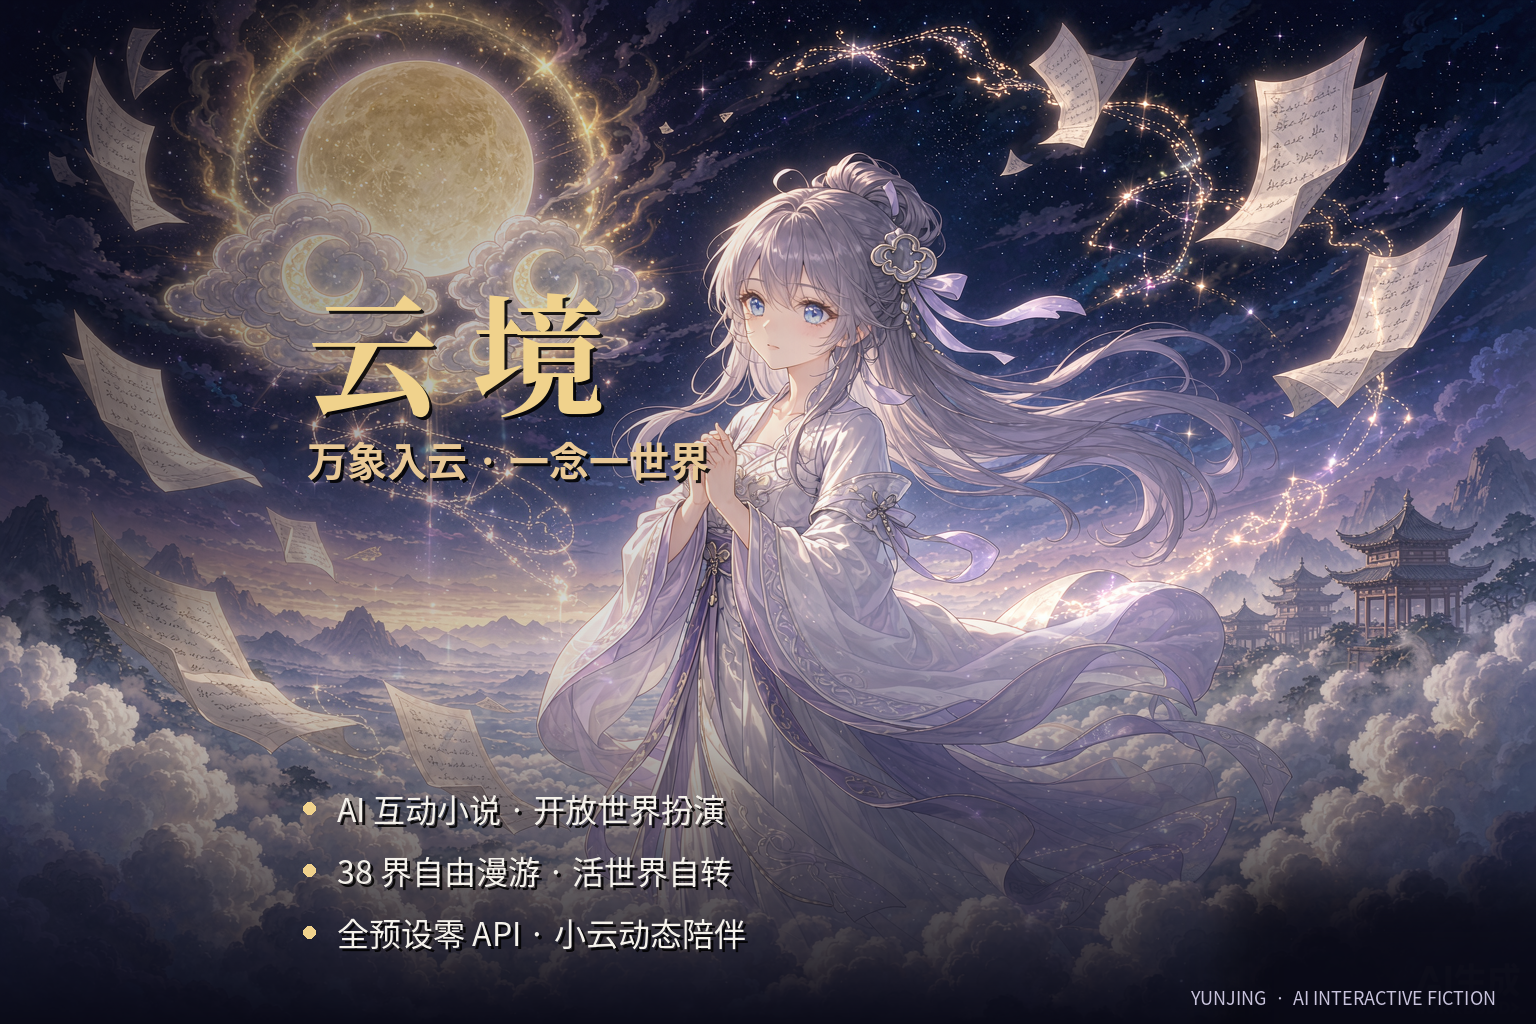
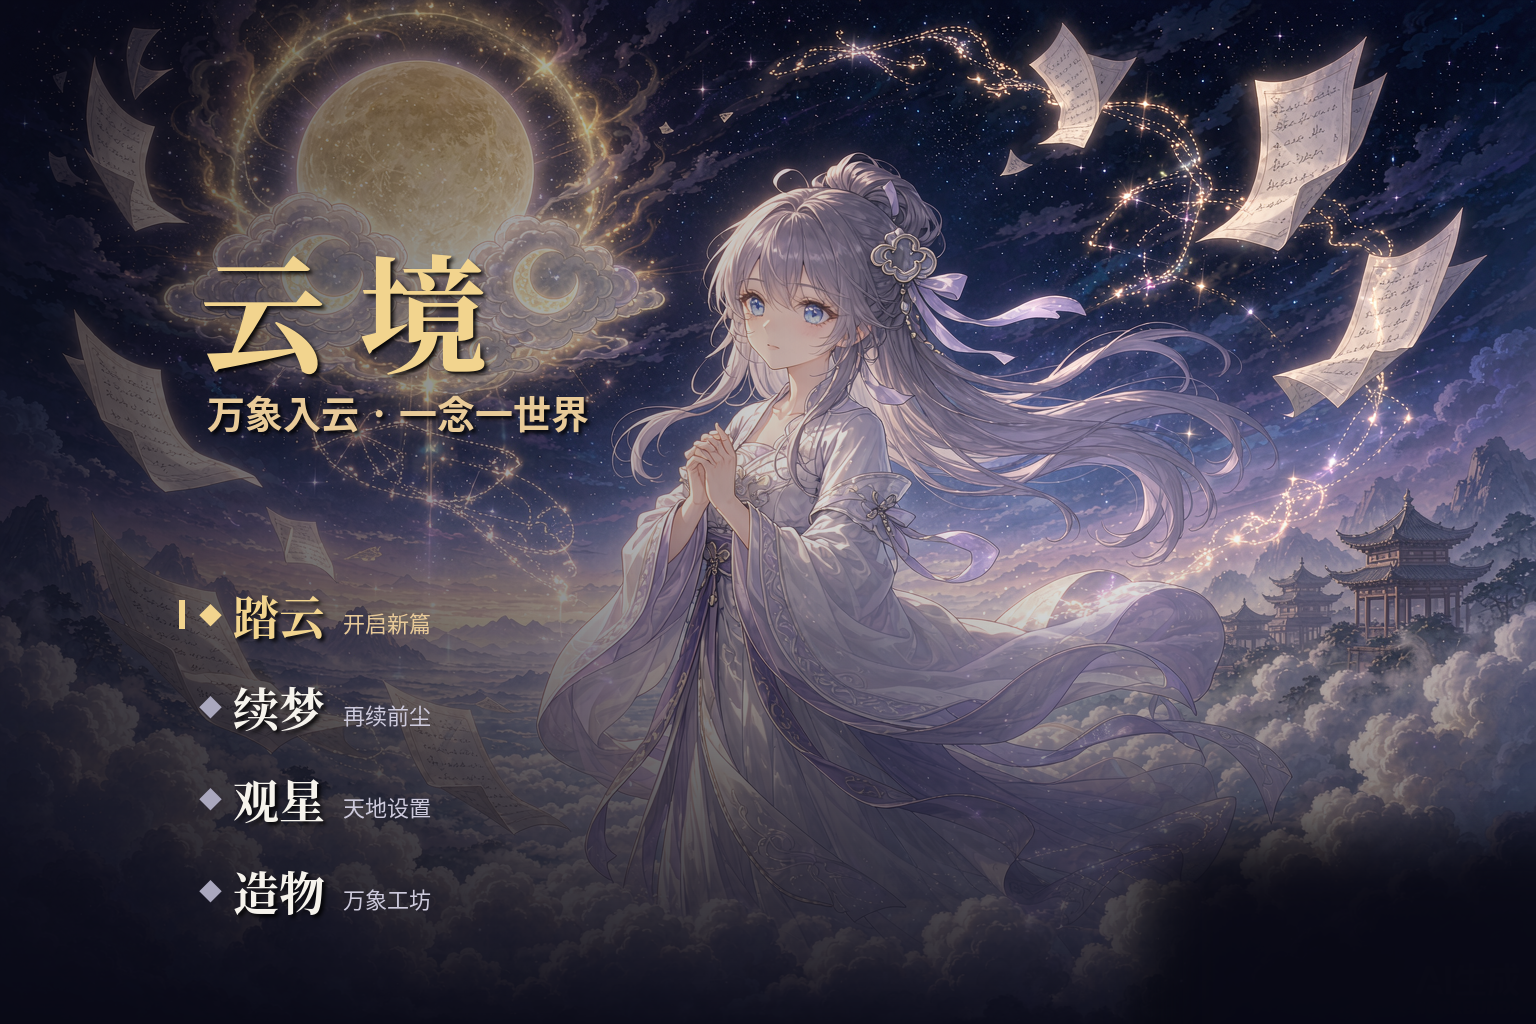
design: 开场封面改造为诗意入口菜单（横/竖两版）
- 去掉左下三行卖点与右下英文
- 标题移到避开人物的位置（横版左上、竖版顶部暗带）
- 左下/底部新增四入口：踏云(开始)/续梦(继续)/观星(设置)/造物(工坊)
- 修正遮罩硬边、彻底盖住生图水印
- 上架文案补充入口命名映射表与接入说明

diff --git a/上架素材/上架文案.md b/上架素材/上架文案.md
@@ -26,6 +26,19 @@
 5. 小云 12 态陪伴
 6. 纯本地隐私可控
 
+## 游玩开场封面 · 入口命名映射
+
+封面（`商店宣传图-横版.png` / `商店宣传图-竖版.png`）左下/底部的四个入口采用诗意命名，日后接入可点击开场界面时按此对齐：
+
+| 封面诗意名 | 功能小字 | 对应功能 |
+|---|---|---|
+| 踏云 | 开启新篇 | 开始游戏（新建） |
+| 续梦 | 再续前尘 | 继续游戏（读档） |
+| 观星 | 天地设置 | 设置 |
+| 造物 | 万象工坊 | 工坊 |
+
+> 说明：当前封面上的入口为**视觉呈现**（静态图），尚不可点击；接入真实开场界面时，按上表把四个入口绑定到对应动作即可。底图 `A_cinematic_*.png` 为 AI 生成原始素材，保留用于复现与再编辑。
+
 ## 版本更新说明（v4.34.0）
 
 - 全新品牌视觉：AI 生成星月云海主视觉封面（横/竖两版）+ 诗意云图标全套 + 国风开场动画。
